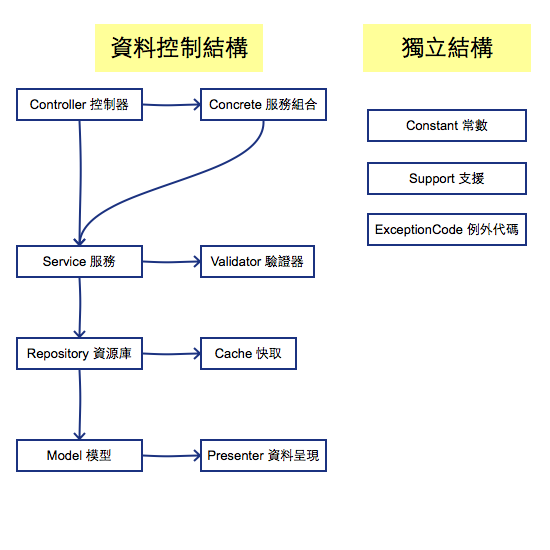
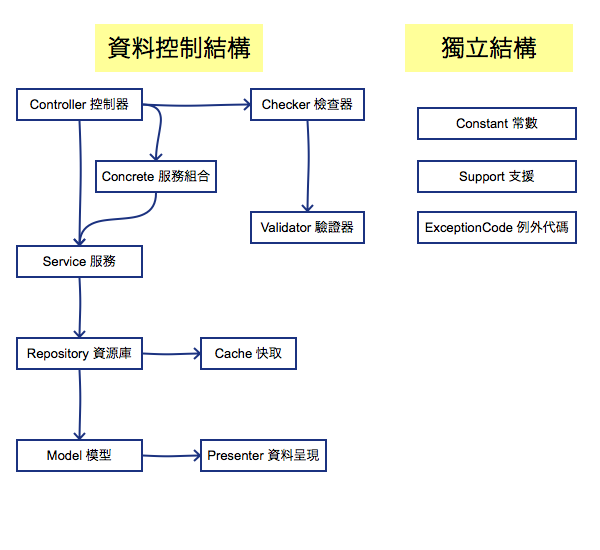
[架構設計準則] - 加入 Checker 層級，更新準則

diff --git a/design-pattern/design-pattern-model-coding-structure-principle.md b/design-pattern/design-pattern-model-coding-structure-principle.md
@@ -44,13 +44,22 @@
 
 而我們需要對 `資料快取的設定、清除` 及 `快取鍵值` 去做管理，快取像是協助 `Repository` 做資料的存取，所以我會分出一層 `Cache (快取) ` 去輔助 `Repository` 做快取的處理
 
+***Checker (檢查器)***
+
+而每個商業邏輯需要驗證的資料不同，有些欄位在不同商業邏輯會有必填與非必填不同的差異，像是在做使用者身份驗證時，若有 Email 驗證及手機驗證，在 Email 驗證時，手機欄位為非必填欄位，在做手機驗證時， Email 為非必填欄位，但兩者皆為使用者的資料，無法強制使用者兩個欄位資料皆為必填，但在某些商業頁邏輯是必要的，但基本的資料驗證規則還是一樣，像是資料最長長度、email 格式...等等。
+
+所以為了能夠重複使用共用的驗證器規則，所以建構了一個 `Checker（檢查器）` 的結構，去呼叫不同的 `Validator` 去檢查資料，像是同一個 Controller 處理的資料可能含有「會員」、「商品」資料，所以同時需要呼叫 `會員驗證器（UserValidator）` 及 `商品驗證器（GoodsValidator）` 的驗證規則去驗證資料，所以就透過 `Checker（檢查器）` 去呼叫不同的驗證器，來達到驗證不同資料的功能，輔助 Controller 做資料驗證。
+
+
 ***Validator (驗證器)***
 
-為了讓資料驗證方法能夠重複使用，不需要在不同的 Controller 去驗證相同的東西，這樣會造成驗證邏輯重複出現，若有需要異動驗證規則時，會難以維護。
+為了讓資料驗證方法能夠重複使用，不需要在不同的地方去驗證相同的東西，這樣會造成驗證邏輯重複出現，若有需要異動驗證規則時，會難以維護。
 
-而每個商業邏輯需要驗證的資料不同，有些欄位在不同商業邏輯會有必填與非必填不同的差異，像是在做使用者身份驗證時，若有 Email 驗證及手機驗證，在 Email 驗證時，手機欄位為非必填欄位，在做手機驗證時， Email 為非必填欄位，但兩者皆為使用者的資料，無法強制使用者兩個欄位資料皆為必填，但在某些商業頁邏輯是必要的，所以我沒有選擇將這些驗證的邏輯寫在 `Repository` 或 `Model` 中。
+所以我沒有選擇將這些驗證的邏輯寫在 `Services`、`Repository` 或 `Model` 中。
 
-所以我會分出一層 `Validator (驗證器)` 輔助 `Service` 做資料驗證。
+所以我會分出一層 `Validator (驗證器)` 輔助 `Checker（檢查器）` 做資料驗證。
+
+
 
 ***Concrete (服務組合)***
 
@@ -95,6 +104,7 @@
                 * Model (模型)
                 * Presenter (資料呈現)
             * Cache (快取)
+    * Checker (檢查器)
         * Validator (驗證器)
 
 ### ***獨立結構***
@@ -113,13 +123,14 @@
 
 | 結構名稱 | 說明 |
 |---|---|
-| Controller (控制器) | 控制要使用哪些 Service 或 Concrete 的商業邏輯，去組合出使用者請求需要的資料，並做資料的資料交易控制 (transaction)  |
+| Controller (控制器) | 控制要使用哪些 Service 或 Concrete 的商業邏輯，去組合出使用者請求需要的資料，並做資料的資料交易控制 (transaction) ，並使用 Checker 去檢查任何使用者傳進來的資料，確保資料的正確性 |
 | Service (服務)  |  做資料的驗證，並組合不同的 Repository 資料成商業邏輯，供 Controller 或 Concrete 存取 |
 | Repository (資源庫)  |  撈取屬於自己 Model 不同條件下的資料，並做快取控制，供 Service 存取 |
 | Model (模型)  | 資料表存取相關設定 |
 | Presenter (資料呈現)  | 協助 Model 做資料呈現處理 |
 | Cache (快取)  | 協助 Repository 做快取資料的控制 |
-| Validator (驗證器) | 協助 Service 做資料驗證 |
+| Checker (檢查器) | 協助 Controller 做資料驗證 |
+| Validator (驗證器) | 協助 Checker 做資料驗證 |
 | Concrete (服務組合) | 協助 Controller 組合不同 Service 的資料成商業邏輯 |
 
 ***獨立結構***
@@ -141,12 +152,14 @@
 ***不能跨 2 階層以上存取***
 
 * Controller 不能存取 Repository
+* Controller 不能存取 Validator
 * Service 不能存取 Model
 
 ***低階層的不能存取高階層的資料***
 
 * Model 不能存取 Repository
 * Repository 不能存取 Service
+* Validator 不能存取 Checker
 
 ***同一個資料類型，不能互相呼叫***
 
@@ -156,16 +169,18 @@ PostService 存取 UserService，UserService 存取 PostsService 造成無窮迴
 
 * Concrete 不能呼叫 Concrete
 * Service 不能呼叫 Service
+* Checker 不能呼叫 Checker
 * Validator 不能呼叫 Validator
 * Repository 不能呼叫 Repository
 * Cache 不能呼叫 Cache
 
 | 結構名稱 | 可存取 | 可被存取 |
 |---|---|---|
-| Controller (控制器) | Concrete、Service、DB trancsction | - |
+| Controller (控制器) | Checker、Concrete、Service、DB transaction | - |
 | Concrete (服務組合) | Service | Controller |
 | Service (服務) | Repository、Validator | Controller、Concrete |
-| Validator (驗證器) | - | Service |
+| Checker (檢查器) | Validator | Controller |
+| Validator (驗證器) | - | Checker |
 | Repository (資源庫)  | 自己的 Model、自己的 Cache | Service |
 | Cache (服務)  | - | Repository |
 | Model (模型) | 自己的 Presenter | Repository |
@@ -188,7 +203,7 @@ PostService 存取 UserService，UserService 存取 PostsService 造成無窮迴
 
 ### Controller (控制器)
 
-> 可以存取結構：`Concrete`、`Service`、`DB trancsction`
+> 可以存取結構：`Checker`、`Concrete`、`Service`、`DB transaction`
 
 > 可以被存取結構：無
 
@@ -201,19 +216,29 @@ class PostController extends Controller
 {
     public function __construct(
         PostConcrete $PostConcrete,
-        CommentService $CommentService
+        PostService $PostService,
+        CommentService $CommentService,
+        PostChecker $PostChecker
     )
     {
         $this->PostConcrete = $PostConcrete;
         $this->PostService = $PostService;
         $this->CommentService = $CommentService;
+        $this->PostChecker = $PostChecker;
     }
 
     // 顯示文章
     public function show($post_id) {
         try {
+            // 驗證資料
+            $input = [
+                'post_id' => $post_id
+            ];
+            $this->PostChecker->checkShow($input);
+
             // 撈取文章
             $Post = $this->PostConcrete->findPost($post_id);
+
             // 撈取文章留言
             $Comment = $this->CommentService->getCommentByPostId(post_id);
         } catch (Exception $exception) {
@@ -224,10 +249,17 @@ class PostController extends Controller
     // 更新文章
     public function update($post_id) {
         try {
+            // 驗證資料
+            $input = request()->all();
+            $input['post_id'] = $post_id;
+            $this->PostChecker->checkUpdate($input);
+
             // 交易開始
             DB::beginTransaction();
+
             // 更新文章
-            $Post = $this->PostService->update($post_id, $update_data);
+            $Post = $this->PostService->update($post_id, $input);
+
             // 交易結束
             DB::commit();
         } catch (Exception $exception) {
@@ -277,7 +309,7 @@ class PostConcrete {
 
 ### Service (服務)
 
-> 可以存取結構：`Validator`、`Repository`
+> 可以存取結構：`Repository`
 
 > 可以被存取結構：`Controller`、`Concrete`
 
@@ -288,23 +320,16 @@ class PostConcrete {
 class PostService {
     public function __construct(
         PostRepository $PostRepository,
-        PostTagRepository $PostTagRepository,
-        PostValidator $PostValidator
+        PostTagRepository $PostTagRepository
     )
     {
         $this->PostRepository = $PostRepository;
         $this->PostTagRepository = $PostTagRepository;
-        $this->PostValidator = $PostValidator;
     }
 
     // 撈取文章
     public function findPost($post_id) {
         try {
-            // 驗證傳入資料是否正確
-            $input = [
-                'post_id' => $post_id
-            ];
-            $this->PostValidator->validateFindPost($input);
             // 撈取文章
             $Post = $this->PostRepository->find($post_id);
             // 撈取文章標籤
@@ -318,11 +343,6 @@ class PostService {
 
     public function clearPostCache($post_id) {
         try {
-            // 驗證傳入資料是否正確
-            $input = [
-                'post_id' => $post_id
-            ];
-            $this->PostValidator->validateClearPostCache($input);
             $Post = $this->findPost($post_id);
             // 清除文章快取
             $this->PostRepository->cache()->clearPostCache($Post);
@@ -335,22 +355,55 @@ class PostService {
 }
 ```
 
+### Checker (檢查器)
+
+> 可以存取結構：`Validator`
+
+> 可以被存取結構：`Controller`
+
+協助 Controller 驗證資料的正確性，若驗證錯誤則丟處例外，Controller 根據例外代碼去做處理
+
+```php
+class PostValidator {
+    public function checkFindPost($input){
+        // 驗證文章資料
+        $this->PostValidator->validatePostId($input);
+        $this->PostValidator->validatePostContent($input);
+
+        // 驗證會員資料
+        $this->MemberValidator->validateMemberId($input);
+    }
+}
+```
+
 ### Validator (驗證器)
 
 > 可以存取結構：無
 
-> 可以被存取結構：`Service`
+> 可以被存取結構：`Checker`
 
-協助 Service 驗證資料的正確性，若驗證錯誤則丟處例外，Controller 根據例外代碼去做處理
+協助 Checker 驗證資料的正確性，若驗證錯誤則丟處例外，Checker 根據例外代碼去做處理
 
 ```php
 class PostValidator {
-    public function validatefindPost($input){
-        // 驗證找尋文章資料是否正確
-        throw new Exception(
-            '文章編號格式錯誤',
-            PostExceptionCode::POST_ID_FORMAT_ERROR
-        );
+    public function validatePostId($input){
+        // 設定驗證規則
+        $rules = [
+            'post_id' => [
+                'required',
+                'max:20',
+            ],
+        ];
+
+        // 開始驗證
+        $this->validator = Validator::make($input, $rules);
+
+        if ($this->validator->fails()) {
+            throw new Exception(
+                '文章編號格式錯誤',
+                PostExceptionCode::POST_ID_FORMAT_ERROR
+            );
+        }
     }
 }
 ```

diff --git a/database/model/database-model-eloquent-magic-function.md b/database/model/database-model-eloquent-magic-function.md
@@ -33,7 +33,7 @@ $article = \App\Article::latest('published_at')
     ->get();
 ```
 
-我們可以簡化這個 query，把它寫在 Model 用函式的方式做處理，這樣我們就可以用這樣去取得以發表的文章：
+我們可以簡化這個 query，把它寫在 Model 用函式的方式做處理，這樣我們就可以用這樣去取得已發表的文章：
 
 ```php
 // 取得已經發表的文章，依照發表時間降冪（Desc）排序
